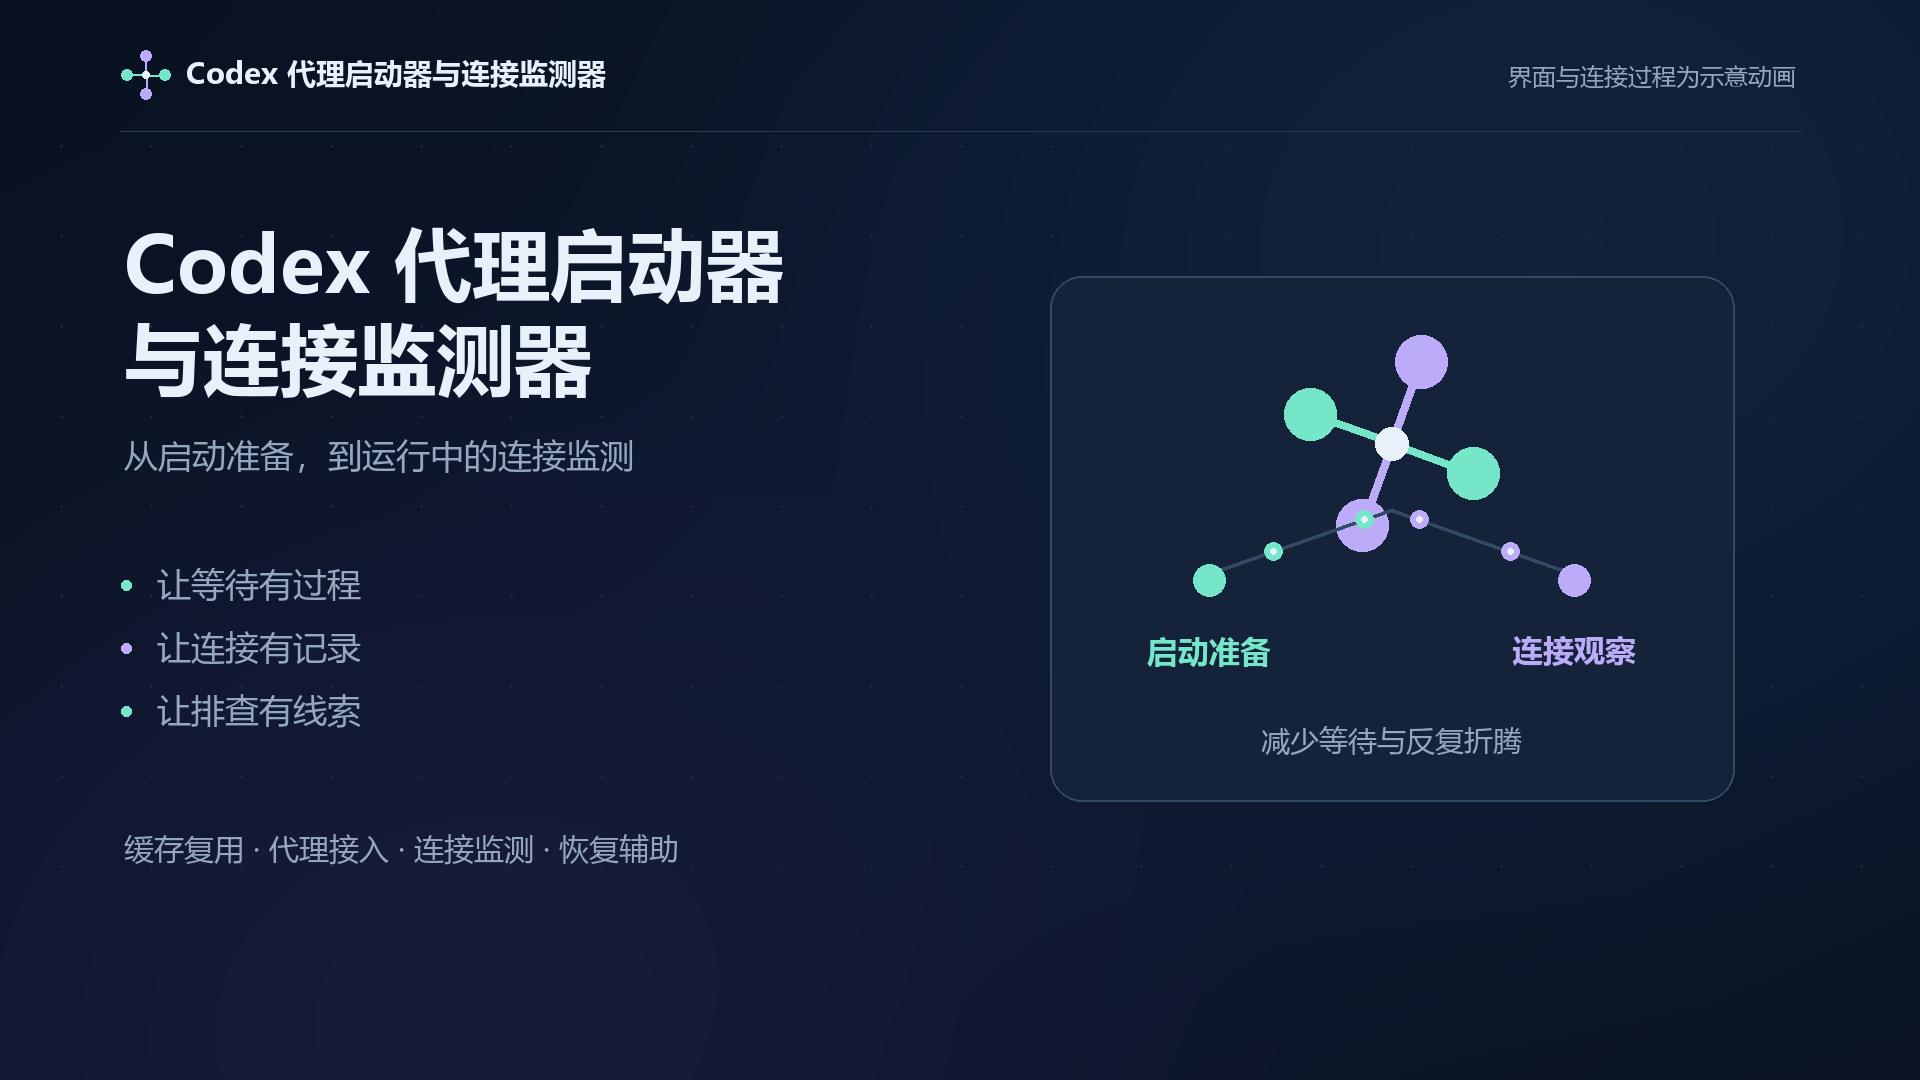
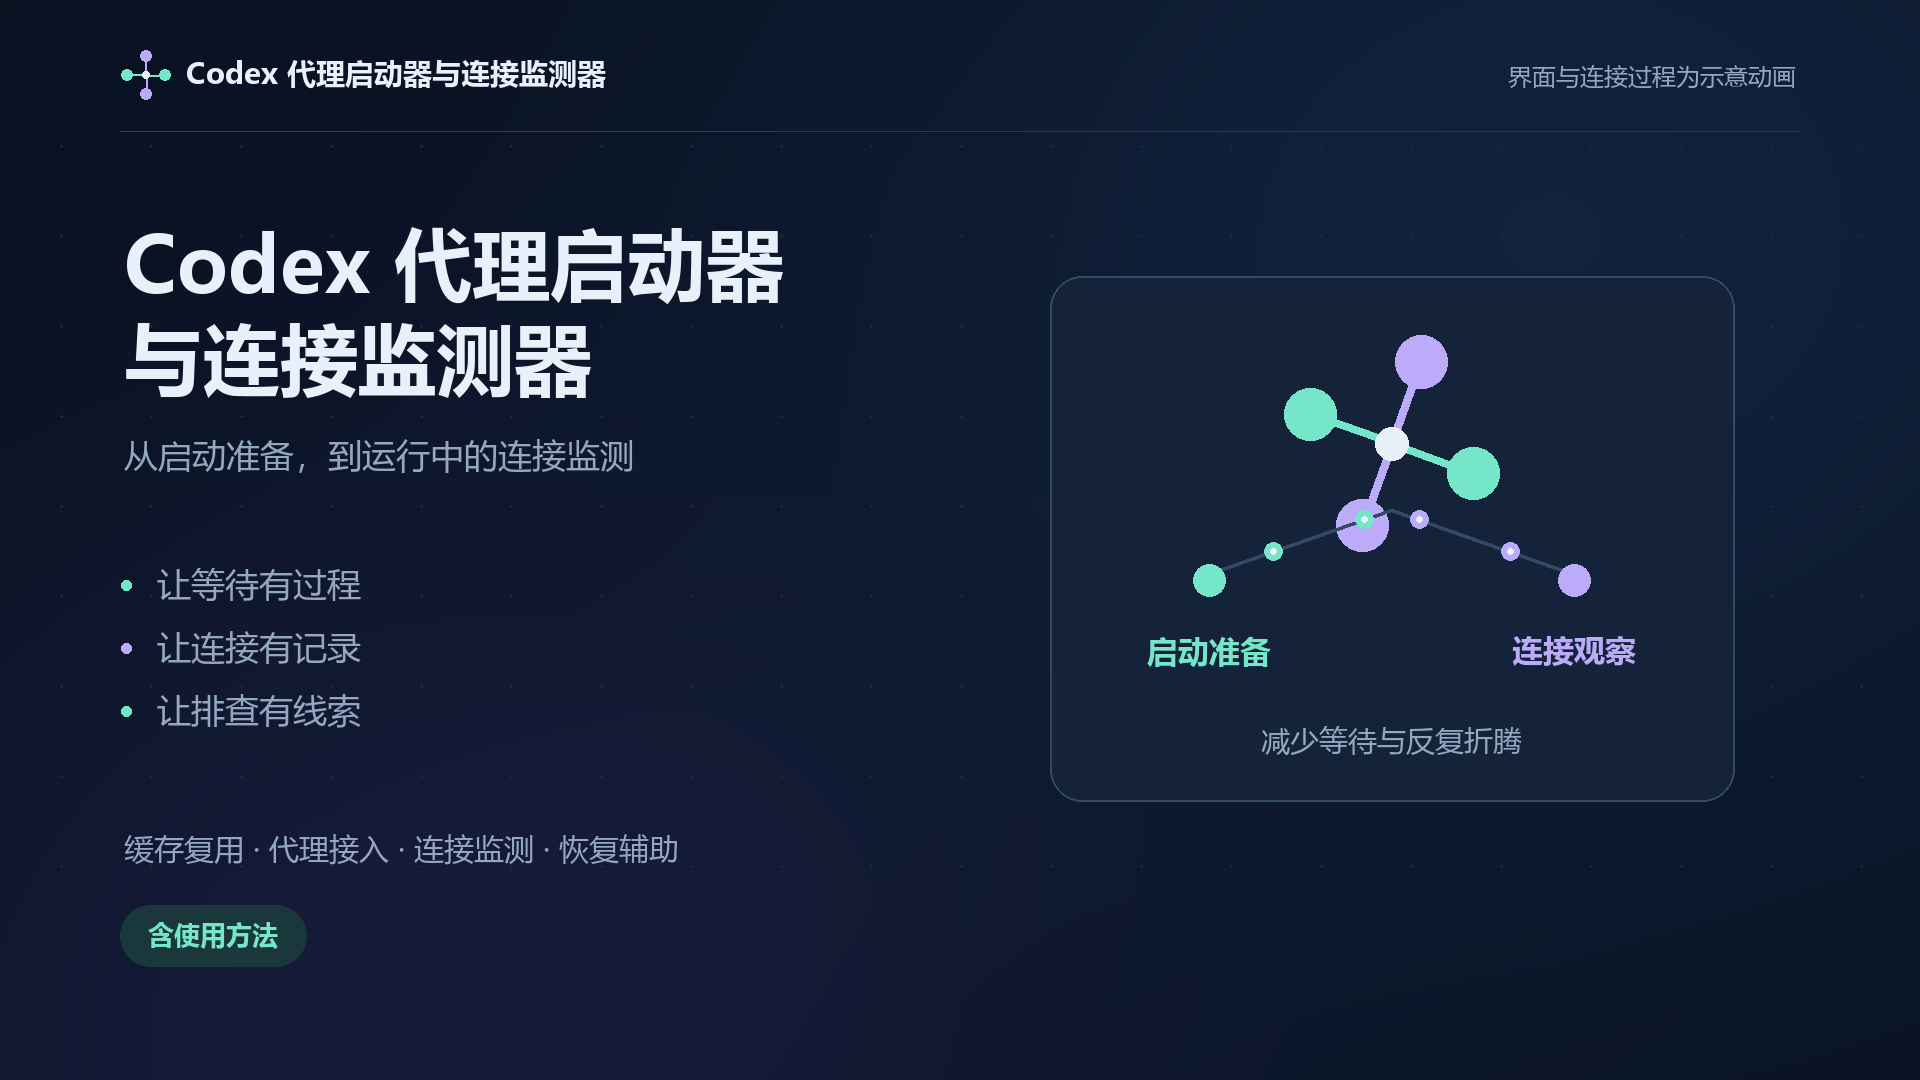
Add usage steps to the Xiaoyi introduction video

Changed region(s): [[0.0625, 0.825, 0.1562, 0.9167]]

diff --git a/README.md b/README.md
@@ -4,9 +4,9 @@
 
 这套 Windows 启动器把启动前的代理检查、运行环境缓存准备和启动后的连接监测接在一起，减少看不见进度的等待和反复重启。
 
-[![介绍视频封面](media/poster.png)](https://github.com/SuiSuiNian721/codex-connection-monitor/releases/download/2026.10.01/introduction-xiaoyi.mp4)
+[![介绍视频封面](media/poster.png)](https://github.com/SuiSuiNian721/codex-connection-monitor/releases/download/2026.10.02/introduction-xiaoyi.mp4)
 
-**[下载完整 Windows 分享包](https://github.com/SuiSuiNian721/codex-connection-monitor/releases/download/2026.10.01/Codex-Connection-Monitor-Windows-20261001.zip)** · [观看晓伊介绍视频](https://github.com/SuiSuiNian721/codex-connection-monitor/releases/download/2026.10.01/introduction-xiaoyi.mp4) · [中文字幕](media/subtitles.srt)
+**[下载完整 Windows 分享包](https://github.com/SuiSuiNian721/codex-connection-monitor/releases/download/2026.10.02/Codex-Connection-Monitor-Windows-20261002.zip)** · [观看晓伊介绍视频](https://github.com/SuiSuiNian721/codex-connection-monitor/releases/download/2026.10.02/introduction-xiaoyi.mp4) · [中文字幕](media/subtitles.srt)
 
 ## 它改善哪些体验
 
@@ -21,14 +21,14 @@
 ## 使用方法
 
 1. 安装 PowerShell 7，并确认终端可以运行 `pwsh.exe`。
-2. 安装 Microsoft Store 版 Codex，完成自己的登录。
+2. 安装并登录 Codex；自动查找适用于当前 Windows 账户下已注册的 `OpenAI.Codex` 应用包，不要求一定从 Microsoft Store 下载。未注册的安装版或便携版还需确认路径和运行环境兼容性。
 3. 打开自己的代理客户端，启用系统代理，确认本机 HTTP/HTTPS 或 mixed 端口可用。
 4. 解压分享包到自己可写的目录，双击 `启动 Codex（代理）.cmd`。
 5. 等待终端显示准备进度。Codex 启动后，连接监测器在后台运行；Codex 退出后监测器结束。
 
 首次使用时，若 Codex 已经打开，启动器会保留现有进程。需要应用这次代理设置时，先保存工作并正常退出 Codex，再使用此入口启动。
 
-本包已包含自包含的 Windows `VpnRecoveryHelper.exe`，使用分享包无需安装 Go、Node 或 Python。Codex 应用、账户、代理线路与 PowerShell 7 需要自行准备。
+本包已包含自包含的 Windows `VpnRecoveryHelper.exe`，使用分享包无需安装 Go、Node 或 Python。Codex 应用、账户、代理线路与 PowerShell 7 需要自行准备。新版介绍视频在结尾前演示首次准备、完整解压并双击、日常启动这三段操作，片尾感谢观看与使用。视频单独提供，ZIP 不包含视频素材。
 
 ## 连接恢复的实际边界
 
@@ -45,7 +45,7 @@
 `package-manifest.json` 列出包内文件、大小与 SHA-256；Release 提供 `CHECKSUMS.sha256`。在 PowerShell 7 中可以核对下载文件：
 
 ```powershell
-Get-FileHash -LiteralPath '.\Codex-Connection-Monitor-Windows-20261001.zip' -Algorithm SHA256
+Get-FileHash -LiteralPath '.\Codex-Connection-Monitor-Windows-20261002.zip' -Algorithm SHA256
 ```
 
 ## 源码与验证
